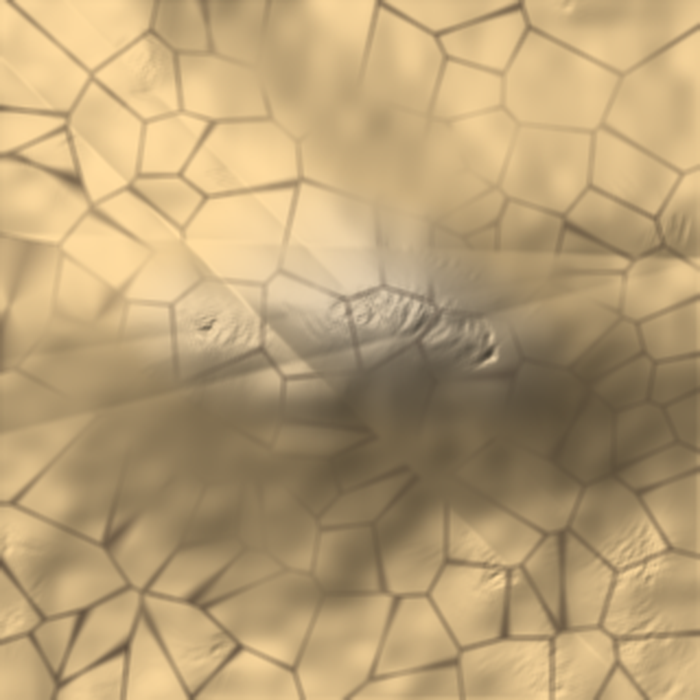
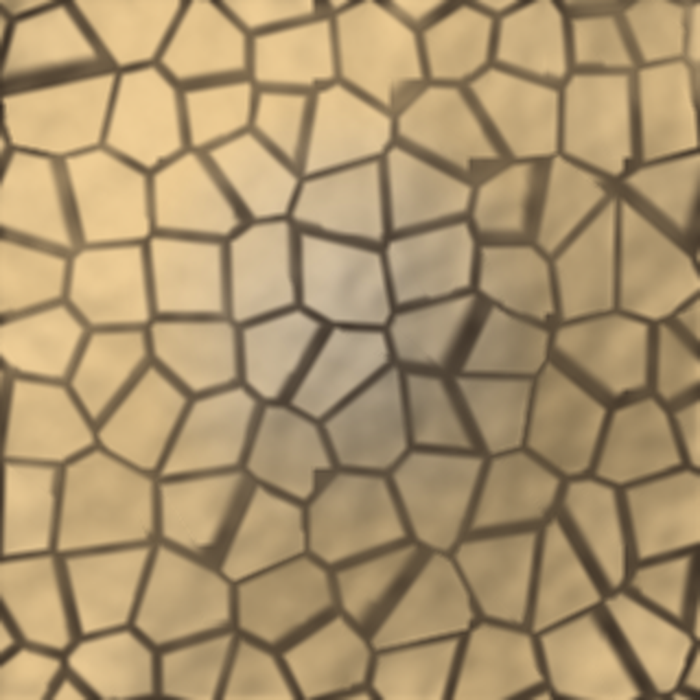
fix(erosion): crest-free terrain and reference-style mud cracks
Terrain: the diagonal streak lines came from bilinear value-noise upsampling, whose interpolation has C0 creases along cell diagonals; noise is now white noise box-blurred per octave (separable cumulative sums), so the height field is smooth at every scale. Ridged transforms and the domain warp that made the surface read as crumpled foil are gone. Cracks: rewrote on the approach used by the cracked-earth shaders — crack width comes from the distance to the perpendicular bisector of the two nearest Voronoi sites (F2-F1 widens with plate size and is the giveaway of a Voronoi texture), plates curl up near cracks as they dry (display-only lift), each plate gets its own tint, and silt grain modulates the colour. Also fixed a border artifact: the site lattice now extends one cell beyond the grid so corner pixels always have 3x3 distinct neighbours, which previously left an uncracked frame around the image.

diff --git a/apps/Physics/Erosion.py b/apps/Physics/Erosion.py
@@ -9,33 +9,42 @@ def _blur3(a):
             + p[2:, :-2] + p[2:, 1:-1] + p[2:, 2:]) / 9.0
 
 
-def _upsample(g, n):
-    """双线性 + smoothstep 插值放大到 n×n。"""
-    f = g.shape[0]
-    x = np.linspace(0, f - 1, n)
-    i0 = np.floor(x).astype(np.int32)
-    i1 = np.minimum(i0 + 1, f - 1)
-    t = x - i0
-    t = t * t * (3 - 2 * t)                      # smoothstep
-    rows = g[i0, :] * (1 - t)[:, None] + g[i1, :] * t[:, None]
-    return rows[:, i0] * (1 - t)[None, :] + rows[:, i1] * t[None, :]
+def smoothstep(e0, e1, x):
+    t = np.clip((x - e0) / max(1e-6, e1 - e0), 0.0, 1.0)
+    return t * t * (3.0 - 2.0 * t)
 
 
-def value_noise(n, rng, octaves=6, base=3):
-    """多倍频值噪声，用来生成山地初始地形。"""
+def _box_blur(a, r):
+    """可分离滑动平均（半径 r 像素）。"""
+    if r < 1:
+        return a
+    k = 2 * r + 1
+    p = np.pad(a, ((0, 0), (r, r)), mode="edge")
+    cs = np.cumsum(p, axis=1, dtype=np.float32)
+    cs = np.concatenate([np.zeros((cs.shape[0], 1), np.float32), cs], axis=1)
+    a = (cs[:, k:] - cs[:, :-k]) / k
+    p = np.pad(a, ((r, r), (0, 0)), mode="edge")
+    cs = np.cumsum(p, axis=0, dtype=np.float32)
+    cs = np.concatenate([np.zeros((1, cs.shape[1]), np.float32), cs], axis=0)
+    return (cs[k:, :] - cs[:-k, :]) / k
+
+
+def value_noise(n, rng, octaves=5, base=3):
+    """多倍频平滑噪声：白噪声反复模糊，没有网格折痕。"""
     total = np.zeros((n, n), dtype=np.float32)
     amp = 1.0
     for i in range(octaves):
         f = base * (2 ** i)
         if f > n:
             break
-        g = rng.random((f, f)).astype(np.float32)
-        total += amp * _upsample(g, n)
-        amp *= 0.45
+        r = max(1, int(round(n / f / 3.0)))
+        g = rng.random((n, n)).astype(np.float32)
+        for _ in range(3):
+            g = _box_blur(g, r)
+        total += amp * g
+        amp *= 0.42
     total -= total.min()
     total /= max(1e-6, total.max())
-    for _ in range(2):
-        total = _blur3(total)
     return total
 
 
@@ -89,27 +98,22 @@ class ErosionSim:
 
     # ---------- 地形 ----------
     def _make_terrain(self):
+        """平滑的多倍频山脉：低频做主体，ridged 项做山脊。"""
         n = self.size
         rng = self.rng
         yy, xx = np.mgrid[0:n, 0:n].astype(np.float32)
-        h = np.zeros((n, n), dtype=np.float32)
 
-        # 几条随机走向的山脊叠成山脉，侵蚀出的沟谷才能在起伏上看出来
-        for _ in range(5):
-            theta = rng.random() * np.pi
-            cx = n * rng.uniform(0.3, 0.7)
-            cy = n * rng.uniform(0.3, 0.7)
-            along = (xx - cx) * -np.sin(theta) + (yy - cy) * np.cos(theta)
-            across = (xx - cx) * np.cos(theta) + (yy - cy) * np.sin(theta)
-            across = np.abs(across) - rng.uniform(0.0, 0.12) * n
-            ridge = np.exp(-(across ** 2) / (2 * (n * 0.11) ** 2)) \
-                * np.exp(-(along ** 2) / (2 * (n * 0.5) ** 2))
-            h += ridge * rng.uniform(0.6, 1.2)
+        base = value_noise(n, rng, octaves=4, base=3)
+        h = 0.85 * base
 
-        h /= max(1e-6, h.max())
-        h += 0.30 * value_noise(n, rng, octaves=4, base=3)
+        dome = np.exp(-(((xx - n * 0.5) ** 2 + (yy - n * 0.45) ** 2) / (2 * (n * 0.32) ** 2)))
+        h = h * 0.55 + 0.95 * dome
+        h += 0.25 * value_noise(n, rng, octaves=3, base=2)
+
         h -= h.min()
         h /= max(1e-6, h.max())
+        for _ in range(3):
+            h = _blur3(h)
         return (h * 1.6).astype(np.float32)
 
     def reset(self):
@@ -124,27 +128,70 @@ class ErosionSim:
 
     # ---------- 龟裂 ----------
     def _build_cracks(self):
+        """抖动网格 Voronoi，记录到板块边界的**垂直距离**（不是 F2-F1）。
+
+        F2-F1 会随板块大小变宽：大板块裂缝是峡谷、小板块是发丝，一眼看出是
+        Voronoi 画的。用 p 到最近两个站点中垂面的距离，裂缝宽度就与板块无关。
+        """
         n = self.size
         rng = self.rng
-        n_sites = int(n / 3) + rng.integers(0, n // 6)
-        sites = rng.random((n_sites, 2)) * (n - 1)
+        cell = max(12.0, n / 9.0)           # 板块边长（像素）
+        gr = int(np.ceil(n / cell)) + 1
 
-        ys = np.arange(n, dtype=np.float32)[:, None]
-        xs = np.arange(n, dtype=np.float32)[None, :]
-        d1 = np.full((n, n), 1e9, dtype=np.float32)
-        d2 = np.full((n, n), 1e9, dtype=np.float32)
-        for sx, sy in sites:
-            d = np.hypot(xs - sx, ys - sy)
-            closer = d < d1
-            d2 = np.where(closer, d1, np.minimum(d2, d))
-            d1 = np.where(closer, d, d1)
+        # 站点网格向四周各扩一圈，保证边界像素也能找到 3×3 个不同的站点，
+        # 否则边缘一圈会因为邻居被裁剪成同一个点而算不出裂缝
+        jitter = 0.85
+        gsz = gr + 2
+        site_x = ((np.arange(gsz)[None, :] - 0.5) + (rng.random((gsz, gsz)) - 0.5) * jitter) * cell
+        site_y = ((np.arange(gsz)[:, None] - 0.5) + (rng.random((gsz, gsz)) - 0.5) * jitter) * cell
 
-        width = 2.2
-        self.crack_line = np.clip(1.0 - (d2 - d1) / width, 0.0, 1.0).astype(np.float32)
+        ys, xs = np.mgrid[0:n, 0:n].astype(np.float32)
+        ci = np.clip((xs / cell).astype(np.int32), 0, gr - 1) + 1
+        cj = np.clip((ys / cell).astype(np.int32), 0, gr - 1) + 1
 
-        # 开裂的"传播噪声"：低频率噪声，让裂纹一片片出现
+        d1 = np.full((n, n), 1e9, np.float32)
+        d2 = np.full((n, n), 1e9, np.float32)
+        x1 = np.zeros((n, n), np.float32)
+        y1 = np.zeros((n, n), np.float32)
+        x2 = np.zeros((n, n), np.float32)
+        y2 = np.zeros((n, n), np.float32)
+        cell_id = np.zeros((n, n), np.int32)
+
+        for dj in (-1, 0, 1):
+            for di in (-1, 0, 1):
+                j = cj + dj
+                i = ci + di
+                sx = site_x[j, i]
+                sy = site_y[j, i]
+                d = np.hypot(xs - sx, ys - sy)
+                closer = d < d1
+                # 更近：原来的最近降为第二近
+                d2 = np.where(closer, d1, np.minimum(d2, d))
+                x2 = np.where(closer, x1, x2)
+                y2 = np.where(closer, y1, y2)
+                d1 = np.where(closer, d, d1)
+                x1 = np.where(closer, sx, x1)
+                y1 = np.where(closer, sy, y1)
+                cell_id = np.where(closer, (j * gsz + i).astype(np.int32), cell_id)
+
+        # p 到中垂面的距离
+        ab = np.hypot(x2 - x1, y2 - y1)
+        ab = np.maximum(ab, 1e-3)
+        self.crack_edge = ((d2 * d2 - d1 * d1) / (2.0 * ab)).astype(np.float32)
+        self.crack_cell = cell_id
+
+        # 每块板自己的干湿色差
+        flat_id = cell_id.ravel()
+        plate_rand = rng.random(int(flat_id.max()) + 1).astype(np.float32)
+        self.plate_tint = plate_rand[flat_id].reshape(n, n)
+
+        # 开裂传播噪声：低频噪声让裂纹一片片出现
         noise = value_noise(n, rng, octaves=4, base=5)
         self.crack_noise = (0.55 * noise + 0.45 * _blur3(_blur3(noise))).astype(np.float32)
+
+        # 泥沙颗粒
+        grain = value_noise(n, rng, octaves=2, base=n // 8)
+        self.grain = (grain - 0.5).astype(np.float32)
 
     # ---------- 雨滴 ----------
     def add_rain(self, count, cx=None, cy=None, radius=0):
@@ -294,18 +341,24 @@ class TerrainCanvas(QWidget):
     def _render_image(self):
         sim = self.sim
         n = sim.size
-        h = _blur3(sim.h)     # 显示用平滑：抹掉单格开凿痕迹
+        h = _blur3(_blur3(sim.h))     # 显示用平滑：抹掉单格开凿痕迹
+        dry = sim.dry
+
+        # 干泥板会向四周裂缝处翘起：只影响显示高度，不动模拟的高度场
+        if dry > 0.02:
+            prox = np.clip(1.0 - sim.crack_edge / 9.0, 0.0, 1.0) ** 2
+            h = h + prox * 0.006 * dry
 
         hmin, hmax = float(h.min()), float(h.max())
         hn = (h - hmin) / max(1e-6, hmax - hmin)
 
         # 光影：梯度按格子尺寸放大成真实坡度，再用法线点乘光向
         gy, gx = np.gradient(h)
-        exag = n * 0.40
+        exag = n * 0.30
         nx, ny, nz = -gx * exag, -gy * exag, np.ones_like(hn)
         inv = 1.0 / np.sqrt(nx * nx + ny * ny + nz * nz)
         light = (nx * -0.48 + ny * -0.48 + nz * 0.73) * inv
-        shade = np.clip(0.62 + 0.75 * light, 0.30, 1.45)
+        shade = np.clip(0.74 + 0.52 * light, 0.40, 1.3)
 
         # 干土 / 湿泥 + 高处露岩：查表（以高度和湿度为索引），省掉多次浮点混合
         if self._soil_lut is None:
@@ -317,20 +370,24 @@ class TerrainCanvas(QWidget):
         if self.show_shade:
             rgb *= shade[..., None]
 
+        # 每块板干燥后的色差 + 泥沙颗粒
+        rgb += (sim.plate_tint[..., None] - 0.5) * 10.0 * dry
+        rgb += sim.grain[..., None] * 9.0
+
         # 积水 / 湿润：低洼处偏蓝
         if self.show_water:
             pond = np.clip((0.16 - hn) / 0.16, 0.0, 1.0) * np.clip((sim.wet - 0.10) * 2.5, 0, 1)
             water = np.clip(pond, 0.0, 1.0)[..., None]
             rgb = rgb * (1 - water * 0.75) + np.array([70, 118, 165], np.float32) * (water * 0.75)
 
-        # 龟裂：平缓、且已经干透的地方张开
-        if self.show_cracks and sim.dry > 0.02:
+        # 龟裂：宽度由「到板块边界的垂直距离」决定，不随板块大小变化
+        if self.show_cracks and dry > 0.02:
+            crack = 1.0 - smoothstep(1.1, 3.6, sim.crack_edge)
+            reveal = np.clip((dry - sim.crack_noise * 0.5) * 4.0, 0.0, 1.0)
             slope = np.hypot(gx, gy) * exag
-            flat = np.clip(1.0 - slope * 0.55, 0.0, 1.0)
-            reveal = np.clip((sim.dry * 1.35 - sim.crack_noise) * 2.8, 0.0, 1.0)
-            crack = sim.crack_line * reveal * flat * np.clip((sim.dry - 0.15) * 1.8, 0.0, 1.0)
-            crack = _blur3(crack)[..., None]
-            rgb = rgb * (1 - crack * 0.88) + np.array([58, 46, 38], np.float32) * (crack * 0.88)
+            flat = np.clip(1.0 - slope * 0.5, 0.0, 1.0)
+            crack = _blur3(crack * reveal * flat)[..., None] * 0.92
+            rgb = rgb * (1 - crack) + np.array([46, 36, 28], np.float32) * crack
 
         out = np.clip(rgb, 0, 255).astype(np.uint8)
         self._image = QImage(out.data, n, n, n * 3, QImage.Format_RGB888).copy()
